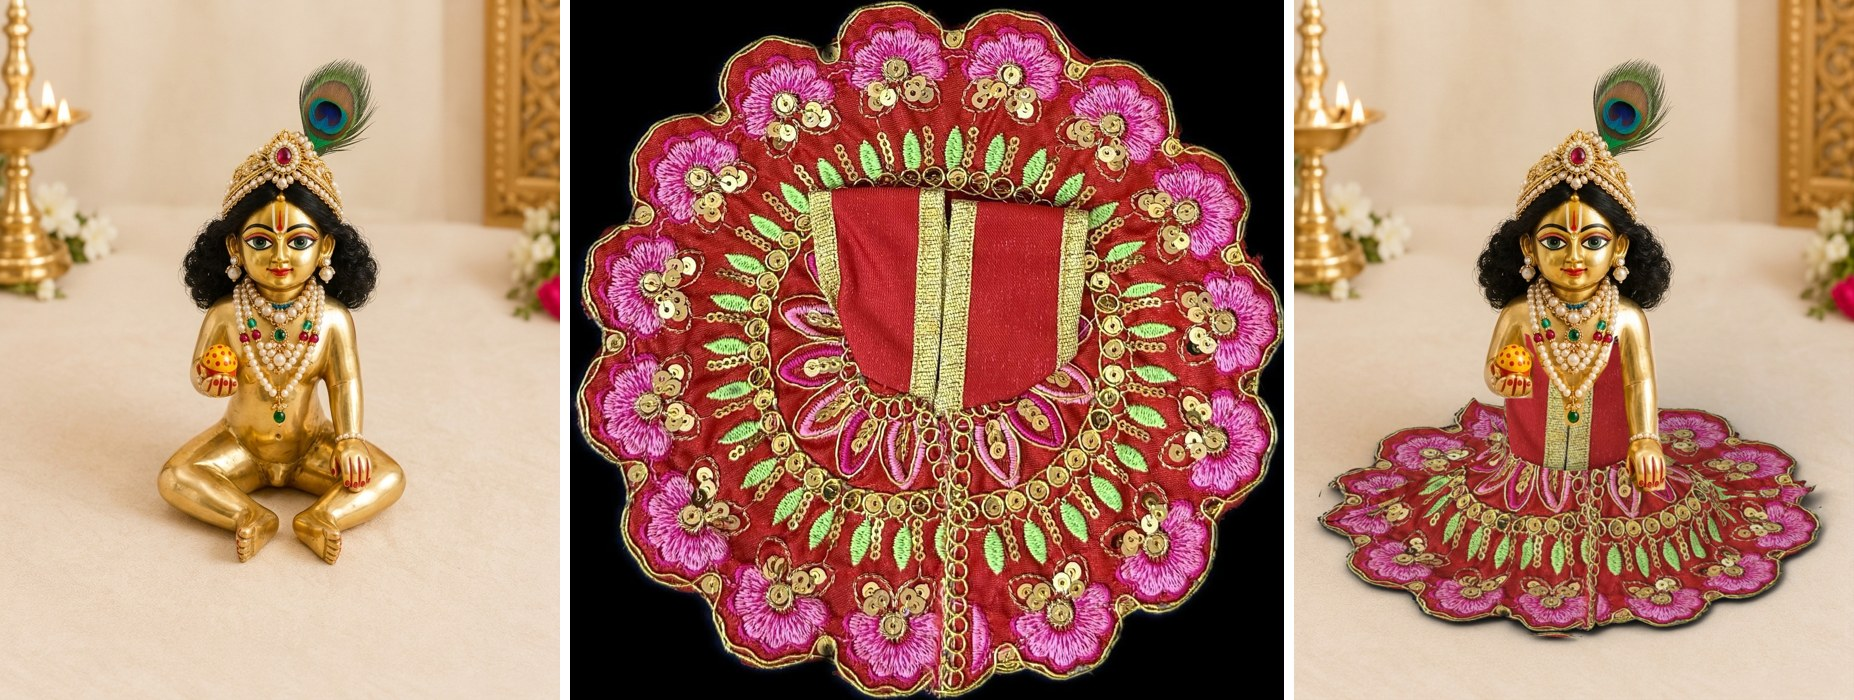
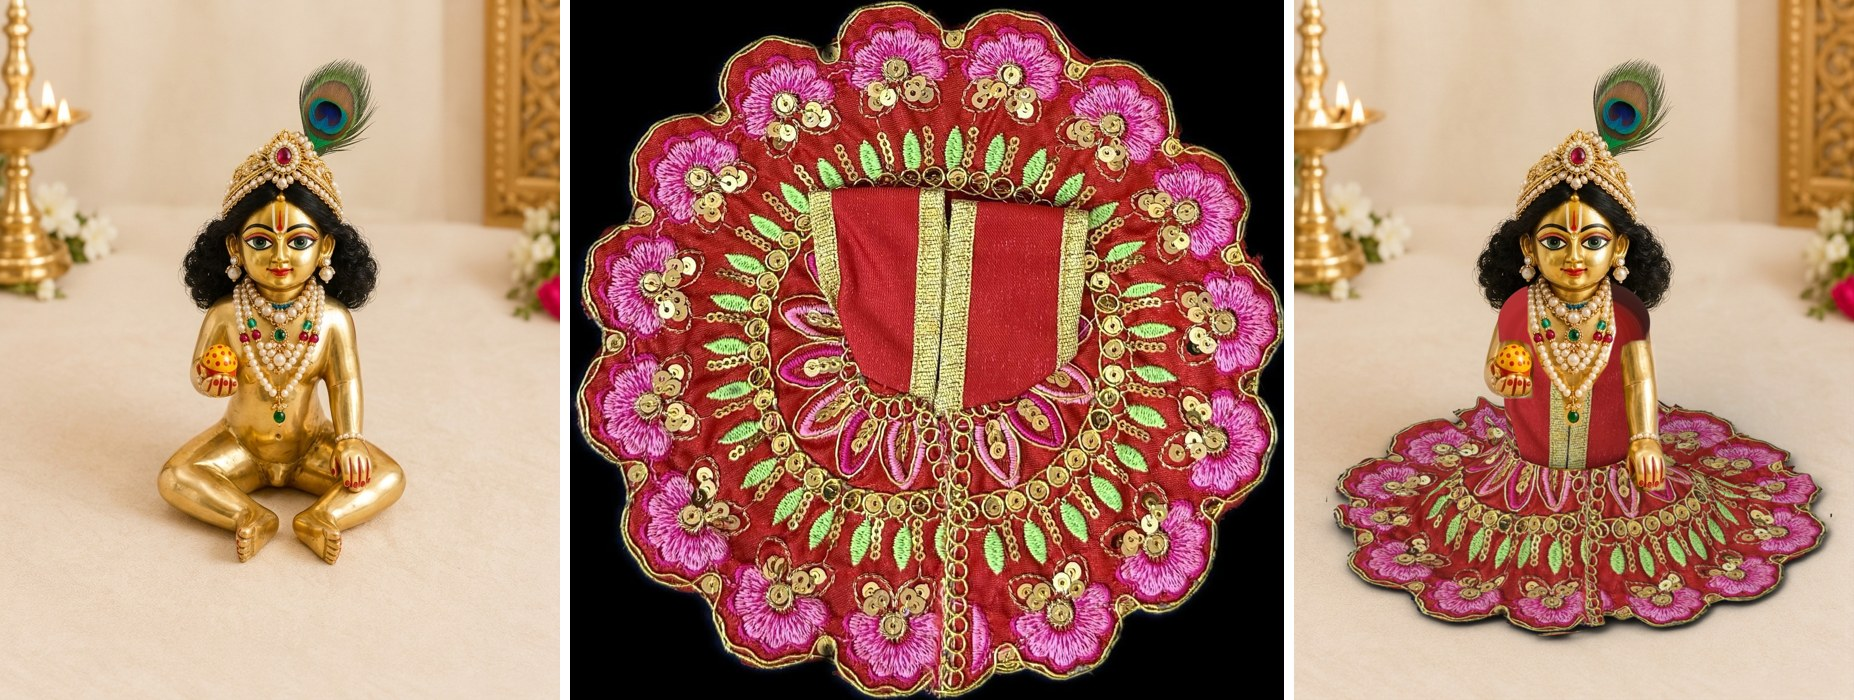
Blender dress: a top that covers the shoulders, neckline, sleeve edges
The bodice is now a shell from the waist over the shoulders to a round
neckline; arms show only below the sleeve edge, with a soft shadow.
The bodice photo keeps its true scale; sides and shoulder tops continue
the plain fabric next to the photo's edge.

Claude-Session: https://claude.ai/code/session_019WJZtyryju3V97GQ1u2Ubf

Changed region(s): [[0.7071, 0.54, 1.0, 0.93], [0.8608, 0.39, 0.8916, 0.51], [0.7994, 0.42, 0.8301, 0.51]]

diff --git a/experiments/blender-dress/dress3d.py b/experiments/blender-dress/dress3d.py
@@ -278,33 +278,74 @@ skirt.modifiers.new("thick", "SOLIDIFY").thickness = 0.002
 skirt.modifiers.new("smooth", "SUBSURF").levels = 1
 
 # ------------------------------------------------------------ bodice
-# the front of the bodice photo wrapped round the front of the torso
+# A top that is really worn: from the waist up the chest, over the shoulders
+# to the neck, with a round neckline at the front. It is a shell round the
+# front and sides of the body (the back is never seen).
+# Texture: the bodice photo at its true scale, centred on the front opening.
+# Beyond the photo's edges (sides, shoulder tops) the plain fabric next to the
+# edge continues, so nothing is stretched or invented.
 b = s["bodice"]
 x0, y0, x1, y1 = d["bodice_box"]
-bw_units = (x1 - x0) / UNIT
-bh_units = (y1 - y0) / UNIT
-rb = b["radius"]
-arc = bw_units / rb                       # angle the bodice front covers
+xc = b.get("centre_px", (x0 + x1) / 2)      # the front opening in the dress photo
+pad = b.get("edge_px", [60, 15])           # how far in from the left/right edge is plain fabric
+z_w, z_sh, z_nk = b["bottom"], b["shoulder"], b["neck"]
+r_w, r_ch, r_nk = b["radius"], b["chest_radius"], b["neck_radius"]
+depth = b.get("depth", 0.8)
+cover = math.radians(b.get("cover_deg", 250))   # how far round the body
+neck_half = math.radians(b.get("neckline_deg", 38))
+neck_drop = b.get("neckline_drop", 0.55)        # share of the shoulder cap cut away at the front
+
+
+def profile(t):
+    """t 0..1 from waist to neck -> (radius, height, length along the cloth)."""
+    k = 0.72
+    if t <= k:
+        u = t / k
+        return r_w + (r_ch - r_w) * u, z_w + (z_sh - z_w) * u
+    phi = (t - k) / (1 - k) * math.pi / 2       # over the shoulder
+    return r_nk + (r_ch - r_nk) * math.cos(phi), z_sh + (z_nk - z_sh) * math.sin(phi)
+
+
+nu, nv = 72, 40
+ts = [i / nv for i in range(nv + 1)]
+pts = [profile(t) for t in ts]
+length = [0.0]
+for i in range(1, len(pts)):
+    length.append(length[-1] + math.hypot(pts[i][0] - pts[i - 1][0], pts[i][1] - pts[i - 1][1]))
 bm = bmesh.new()
 uvl = bm.loops.layers.uv.new("UVMap")
-nu, nv = 48, 24
-vs = []
-for i in range(nv + 1):
-    z = b["bottom"] + bh_units * i / nv
+grid, uv = [], {}
+for i, (r, z) in enumerate(pts):
     row = []
     for j in range(nu + 1):
-        a = -math.pi / 2 - arc / 2 + arc * j / nu   # centred on the front (-y)
-        taper = 1 + b.get("flare", 0.08) * (1 - i / nv)
-        row.append(bm.verts.new((rb * taper * math.cos(a), b.get("y", 0) + rb * b.get("depth", 0.85) * taper * math.sin(a), z)))
-    vs.append(row)
+        ang = -cover / 2 + cover * j / nu                 # 0 = front centre
+        v = bm.verts.new((r * math.sin(ang), -r * depth * math.cos(ang), z))
+        arc_len = r_ch * ang                              # along the chest
+        px = min(max(xc + arc_len * UNIT, x0 + pad[0]), x1 - pad[1])
+        py = max(y1 - length[i] * UNIT, y0 + b.get("top_px", 25))
+        uv[v] = uv_of(px, py)
+        row.append(v)
+    grid.append(row)
+
+
+def above_neckline(i, j):
+    ang = -cover / 2 + cover * (j + 0.5) / nu
+    if abs(ang) >= neck_half:
+        return False
+    t = (i + 0.5) / nv
+    cut = 1 - (1 - 0.72) * neck_drop * math.cos(ang / neck_half * math.pi / 2) ** 0.7
+    return t > cut
+
+
 for i in range(nv):
     for j in range(nu):
-        f = bm.faces.new((vs[i][j], vs[i][j + 1], vs[i + 1][j + 1], vs[i + 1][j]))
+        if above_neckline(i, j):
+            continue
+        f = bm.faces.new((grid[i][j], grid[i][j + 1], grid[i + 1][j + 1], grid[i + 1][j]))
         for loop in f.loops:
-            # recover grid position from the vertex
-            vi = next(k for k in range(nv + 1) if loop.vert in vs[k])
-            vj = vs[vi].index(loop.vert)
-            loop[uvl].uv = uv_of(x0 + (x1 - x0) * vj / nu, y1 - (y1 - y0) * vi / nv)
+            loop[uvl].uv = uv[loop.vert]
+loose = [v for v in bm.verts if not v.link_faces]
+bmesh.ops.delete(bm, geom=loose, context="VERTS")
 me = bpy.data.meshes.new("bodice")
 bm.to_mesh(me)
 bm.free()
@@ -313,6 +354,7 @@ scn.collection.objects.link(bodice)
 bodice.data.materials.append(DRESS_MAT)
 for p in bodice.data.polygons:
     p.use_smooth = True
+bodice.modifiers.new("thick", "SOLIDIFY").thickness = 0.006
 bodice.modifiers.new("smooth", "SUBSURF").levels = 1
 
 # ------------------------------------------------------------ light + camera
@@ -355,9 +397,19 @@ a = ren[..., 3:4]
 out = idol[..., :3] * (1 - a) + ren[..., :3] * a
 # the idol's arms, hands, ball and necklace go back on top
 keep = np.zeros((IH, IW), np.float32)
-for poly in CFG["keep_on_top"]:
-    keep = np.maximum(keep, polygon_mask(IH, IW, poly).astype(np.float32))
+shade = np.zeros((IH, IW), np.float32)
+for k, poly in enumerate(CFG["keep_on_top"]):
+    m = polygon_mask(IH, IW, poly).astype(np.float32)
+    keep = np.maximum(keep, m)
+    if k in CFG.get("shade_under_sleeve", []):
+        shade = np.maximum(shade, m)
 keep = box_blur(keep, 1)[..., None]
 out = out * (1 - keep) + idol[..., :3] * keep
+# a soft shadow on the arm just under the sleeve hem
+gap = CFG.get("sleeve_shadow_px", 14)
+dress_above = np.zeros((IH, IW), np.float32)
+dress_above[gap:] = a[:-gap, :, 0]
+dark = box_blur(dress_above * (1 - box_blur(shade, 0)), gap // 2) * shade
+out = out * (1 - 0.45 * np.clip(dark, 0, 1))[..., None]
 save(np.dstack([out, np.ones((IH, IW), np.float32)]), OUT)
 print("saved", OUT)

diff --git a/experiments/blender-dress/README.md b/experiments/blender-dress/README.md
@@ -30,7 +30,7 @@ Works:
 - Same setup for every dress: only the dress photo changes.
 
 Not yet:
-- **The bodice is a simple wrap.** It has a straight top edge and doesn't cover the shoulders. The flat photo only shows the bodice's front, so shoulders, straps and sleeves would need their own modelling.
+- **The top is a generic shape.** It goes from the waist over the shoulders to a round neckline, with short-sleeve edges on the arms. The flat photo only shows the bodice's front, so the shoulder tops and sides use the plain fabric next to the photo's edge. A dress with long sleeves or a different neckline needs its own shape settings.
 - **Stand-in shapes are rough.** They are boxes and ellipsoids sized by eye. A better match to the idol (especially the legs) gives a more natural drape.
 - **Sequins look flat.** They don't glint as they do in real light.
 - The keep-on-top outlines (arms, necklace) were drawn roughly by hand.
@@ -59,8 +59,8 @@ Set **once per idol photo** (`scene`, in units where 1 = width of the crossed le
 - `camera.anchor_px`: pixel of the idol's waist centre in the idol photo. `px_per_unit`: width of the crossed legs in pixels. `tilt_deg`: how much the camera looks down.
 - `torso`, `lap`: stand-in body and legs that the cloth lands on.
 - `skirt_radius`: how big the dress is on the idol (bigger = wider spread). `waist_height`, `waist_radius`: where the skirt is attached.
-- `bodice`: radius, depth and bottom of the bodice wrap.
-- `keep_on_top`: outlines (pixels in the idol photo) of what stays in front: arms, hand with ball, necklace.
+- `bodice`: the top. Heights `bottom` (waist), `shoulder`, `neck`; radii `radius` (waist), `chest_radius`, `neck_radius`; `cover_deg` (how far round the body), `neckline_deg` / `neckline_drop` (width and depth of the front neckline); `centre_px` (the front opening in the dress photo); `edge_px` / `top_px` (how far in from the photo's edges the plain fabric is).
+- `keep_on_top`: outlines (pixels in the idol photo) of what stays in front: the arms *below the sleeve edge*, the hand with ball, the necklace. `shade_under_sleeve` lists which of them get a soft shadow under the sleeve.
 
 Per dress (`dress_photo`):
 - `skirt_centre`, `skirt_radius_px`: measured automatically from the photo (leave `null`).
@@ -71,7 +71,7 @@ Per dress (`dress_photo`):
 ## Next steps if this is the way
 
 1. Better stand-in shapes, fitted to the idol photo once.
-2. A proper bodice: shoulders/straps from the photo's outline.
+2. Top shapes for other cuts (long sleeves, collars).
 3. Exact camera match (fSpy) instead of the hand-set orthographic camera.
 4. Exact keep-on-top masks (click-to-select) instead of hand-drawn outlines.
 5. Hook into StockSnap's listing photos.
